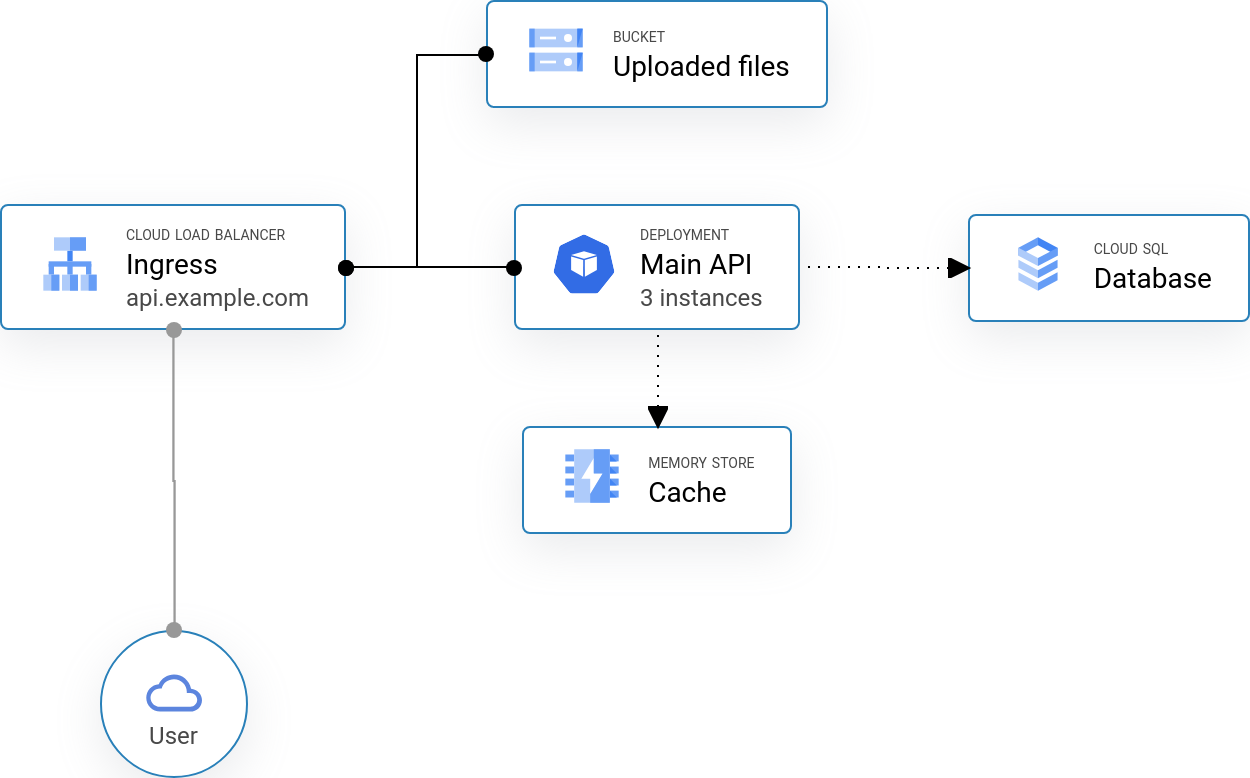
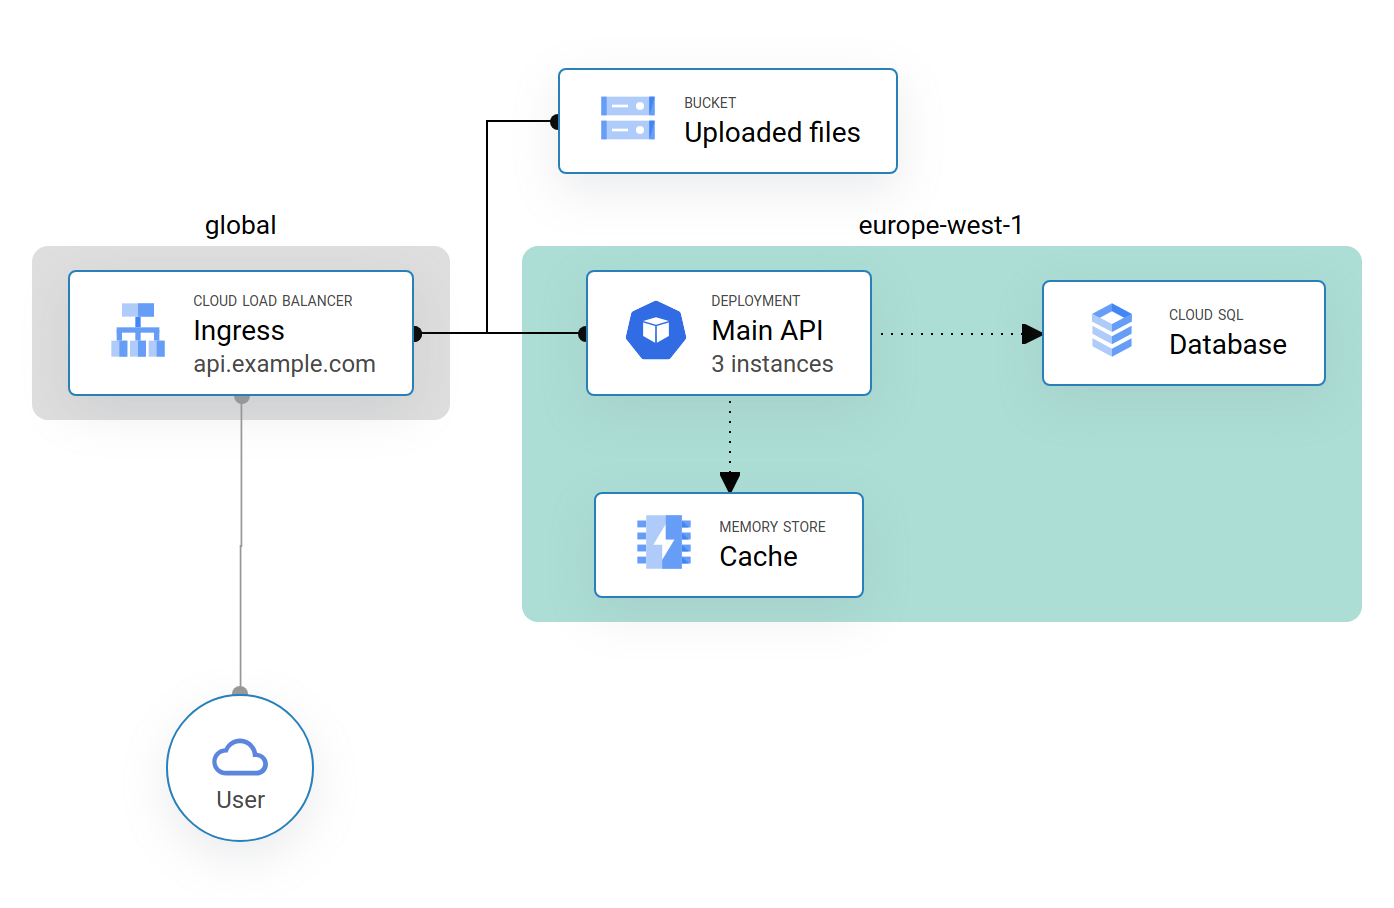
Added more Canvas customization and zone support.

diff --git a/src/canvas.ts b/src/canvas.ts
@@ -1,4 +1,86 @@
+import { BrowserJsPlumbInstance, newInstance } from "@jsplumb/browser-ui";
+
 export class Canvas {
-  static backgroundColor: string = "white";
-  static padding: number = 0;
+  static instance: BrowserJsPlumbInstance;
+  static area: HTMLElement;
+
+  private static _baseFontSize: number = 12;
+  private static _backgroundColor: string = "white";
+  private static _padding: number = 0;
+  private static _rowGap: number = 48;
+  private static _columnGap: number = 72;
+
+  static setup() {
+    let area = document.getElementById("dac-area");
+
+    if (!area) {
+      area = document.createElement("div");
+      area.setAttribute("id", "dac-area");
+
+      area.style.fontSize = `${this._baseFontSize}px`;
+      area.style.backgroundColor = this._backgroundColor;
+      area.style.padding = `${this._padding}px`;
+      area.style.rowGap = `${this._rowGap}px`;
+      area.style.columnGap = `${this._columnGap}px`;
+
+      document.body.prepend(area);
+
+      this.area = area;
+
+      this.instance = newInstance({
+        container: area,
+      });
+    }
+  }
+
+  static get baseFontSize() {
+    return this._baseFontSize;
+  }
+
+  static set baseFontSize(size: number) {
+    this._baseFontSize = size;
+    this.area.style.fontSize = `${size}px`;
+  }
+
+  static get background() {
+    return this._backgroundColor;
+  }
+
+  static set background(color: string) {
+    this._backgroundColor = color;
+    this.area.style.backgroundColor = color;
+  }
+
+  static get padding() {
+    return this._padding;
+  }
+
+  static set padding(padding: number) {
+    this._padding = padding;
+    this.area.style.padding = `${padding}px`;
+  }
+
+  static setZonePadding() {
+    const padding = Math.max(this.rowGap, this.columnGap) / 4;
+
+    this.area.style.padding = `calc(${padding}px + 1.3em)`;
+  }
+
+  static get rowGap() {
+    return this._rowGap;
+  }
+
+  static set rowGap(gap: number) {
+    this._rowGap = gap;
+    this.area.style.rowGap = `${gap}px`;
+  }
+
+  static get columnGap() {
+    return this._columnGap;
+  }
+
+  static set columnGap(gap: number) {
+    this._columnGap = gap;
+    this.area.style.columnGap = `${gap}px`;
+  }
 }

diff --git a/src/node.ts b/src/node.ts
@@ -11,8 +11,6 @@ import { Canvas } from "./canvas";
 import { Position, Appearance } from "./types";
 import { Peer, PeerOptions } from "./peer";
 
-let instance: BrowserJsPlumbInstance | undefined;
-
 export class Node {
   id: string;
   col: number;
@@ -24,28 +22,16 @@ export class Node {
     peers: (Node | [Node, PeerOptions])[] = [],
     appearance?: Appearance,
   ) {
-    let area = document.getElementById("dac-area");
-
-    if (!area) {
-      area = document.createElement("div");
-      area.setAttribute("id", "dac-area");
-      area.style.backgroundColor = Canvas.backgroundColor;
-      area.style.padding = `${Canvas.padding}px`;
-
-      document.body.prepend(area);
-
-      instance = newInstance({
-        container: area,
-      });
-    }
-
     const { col, row } = position;
 
     this.id = crypto.randomUUID();
     this.col = col;
     this.row = row;
 
-    if (!instance) {
+    if (!Canvas.instance) {
+      console.error(
+        "Canvas was not initialized, please run `Canvas.setup() before adding nodes.",
+      );
       return;
     }
 
@@ -96,7 +82,7 @@ export class Node {
       }
     }
 
-    area.appendChild(template);
+    Canvas.area.appendChild(template);
 
     const node = document.getElementById(this.id)!;
 
@@ -172,7 +158,7 @@ export class Node {
         anchor = peer.anchor;
       }
 
-      instance.connect({
+      Canvas.instance.connect({
         source: node,
         target: document.getElementById(peer.node.id)!,
         anchor,

diff --git a/src/zone.ts b/src/zone.ts
@@ -1,0 +1,48 @@
+import { Canvas } from "./canvas";
+import { Position } from "./types";
+
+export type ZoneOptions = {
+  title?: string;
+  background?: string;
+  border?: string;
+};
+
+export class Zone {
+  constructor(position: Position, options: ZoneOptions = {}) {
+    if (!Canvas.instance) {
+      console.error(
+        "Canvas was not initialized, please run `Canvas.setup() before adding nodes.",
+      );
+      return;
+    }
+
+    Canvas.setZonePadding();
+
+    const zone = document.createElement("div");
+
+    zone.classList.add("dac-zone");
+
+    zone.style.gridColumn = `${position.col} / span ${position.colSpan}`;
+    zone.style.gridRow = `${position.row} / span ${position.rowSpan}`;
+    zone.style.width = `calc(100% + (${Canvas.columnGap}px / 2))`;
+    zone.style.height = `calc(100% + (${Canvas.rowGap}px / 2))`;
+
+    if (options.background) {
+      zone.style.backgroundColor = options.background;
+    }
+    if (options.border) {
+      zone.style.border = `1px solid ${options.border}`;
+    }
+
+    if (options.title) {
+      const title = document.createElement("span");
+      const titleText = document.createTextNode(options.title);
+
+      title.classList.add("dac-zone-title");
+      title.append(titleText);
+      zone.append(title);
+    }
+
+    document.getElementById("dac-area")!.append(zone);
+  }
+}

diff --git a/examples/diagram.ts b/examples/diagram.ts
@@ -1,6 +1,8 @@
-import { Node } from "@apognu/diagascode/src/lib";
+import { Zone, Node, Canvas } from "@apognu/diagascode/src/lib";
 
 window.onload = () => {
+  Canvas.setup();
+
   const user = new Node(
     { col: 1, row: 4 },
     {
@@ -69,5 +71,15 @@ window.onload = () => {
       title: "Cache",
     },
     [[api, { connection: { dashed: true }, handles: { arrow: true } }]],
+  );
+
+  const global = new Zone(
+    { col: 1, colSpan: 1, row: 2, rowSpan: 1 },
+    { title: "global", background: "#dedede" },
+  );
+
+  const ew1 = new Zone(
+    { col: 2, colSpan: 2, row: 2, rowSpan: 2 },
+    { title: "europe-west-1", background: "#acded5" },
   );
 };

diff --git a/src/diagascode.css b/src/diagascode.css
@@ -1,21 +1,31 @@
 * {
   font-family: Roboto, sans-serif;
-  -webkit-font-smoothing: antialiased;
-  backface-visibility: hidden;
-  -webkit-backface-visibility: hidden;
+}
+
+body {
+  font-size: 12px;
 }
 
 #dac-area {
   display: inline-grid;
   grid-auto-columns: max-content;
-  grid-row-gap: 48px;
-  grid-column-gap: 70px;
   align-items: center;
   justify-items: center;
 }
 
 .dac-template {
   display: none !important;
+}
+
+.dac-zone {
+  border-radius: 8px;
+  text-align: center;
+}
+
+.dac-zone-title {
+  font-size: 1.1em;
+  position: relative;
+  bottom: 1.3em;
 }
 
 .dac-node {

diff --git a/src/lib.ts b/src/lib.ts
@@ -1,4 +1,5 @@
 import "./diagascode.css";
 
+export { Zone } from "./zone";
 export { Node } from "./node";
 export { Canvas } from "./canvas";

diff --git a/README.md b/README.md
@@ -32,12 +32,28 @@ General options about the canvas can be configured before any node:
 import { Canvas } from '@apognu/diagascode/src/lib';
 
 window.onload = () => {
+  Canvas.baseFontSize = 14;
   Canvas.backgroundColor = "black";
   Canvas.padding = 32;
+  Canvas.rowGap = 16;
+  Canvas.columnGap = 16;
 }
 ```
 
-## Node definition
+## Zones
+
+You can create zones that encompass several grid cells by instantiating a `Zone`. Any zone created will be sized to reach a quarter of the configured grid gaps. A zone will bear the class `dac-zone` and a zone title will have `dac-zone-title`. When a zone is created, a suitable padding is added to the document so that edge zones are not cropped.
+
+You can customize the appearance of the zone's background and border colors, as well as adding a title.
+
+```typescript
+new Zone(
+  { col: 2, row: 4, colSpan: 2, rowSpan: 2},
+  { background: "red", border: "black", title: "A zone title"}
+)
+```
+
+## Nodes
 
 ### Position
 
